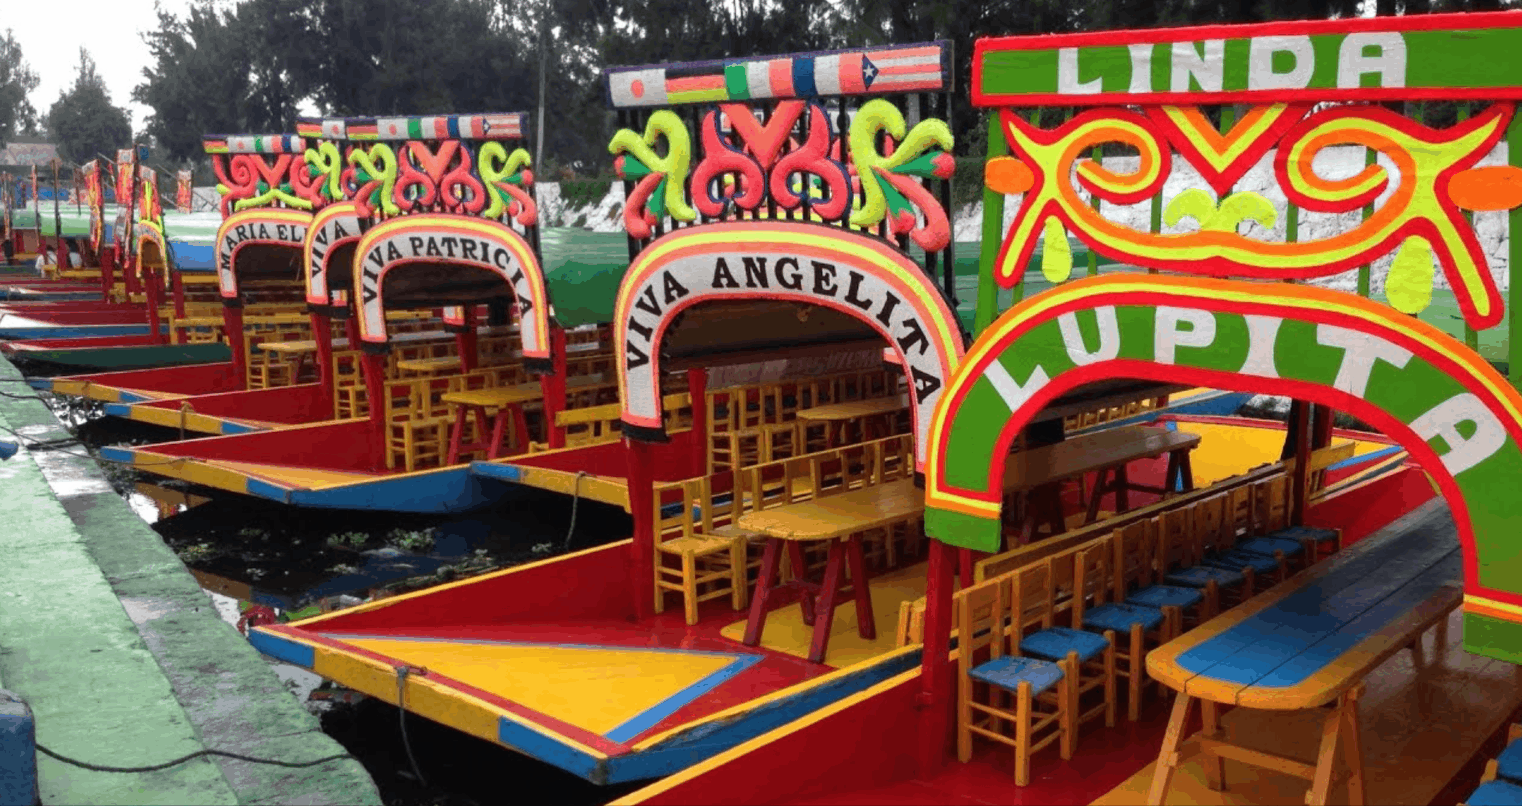
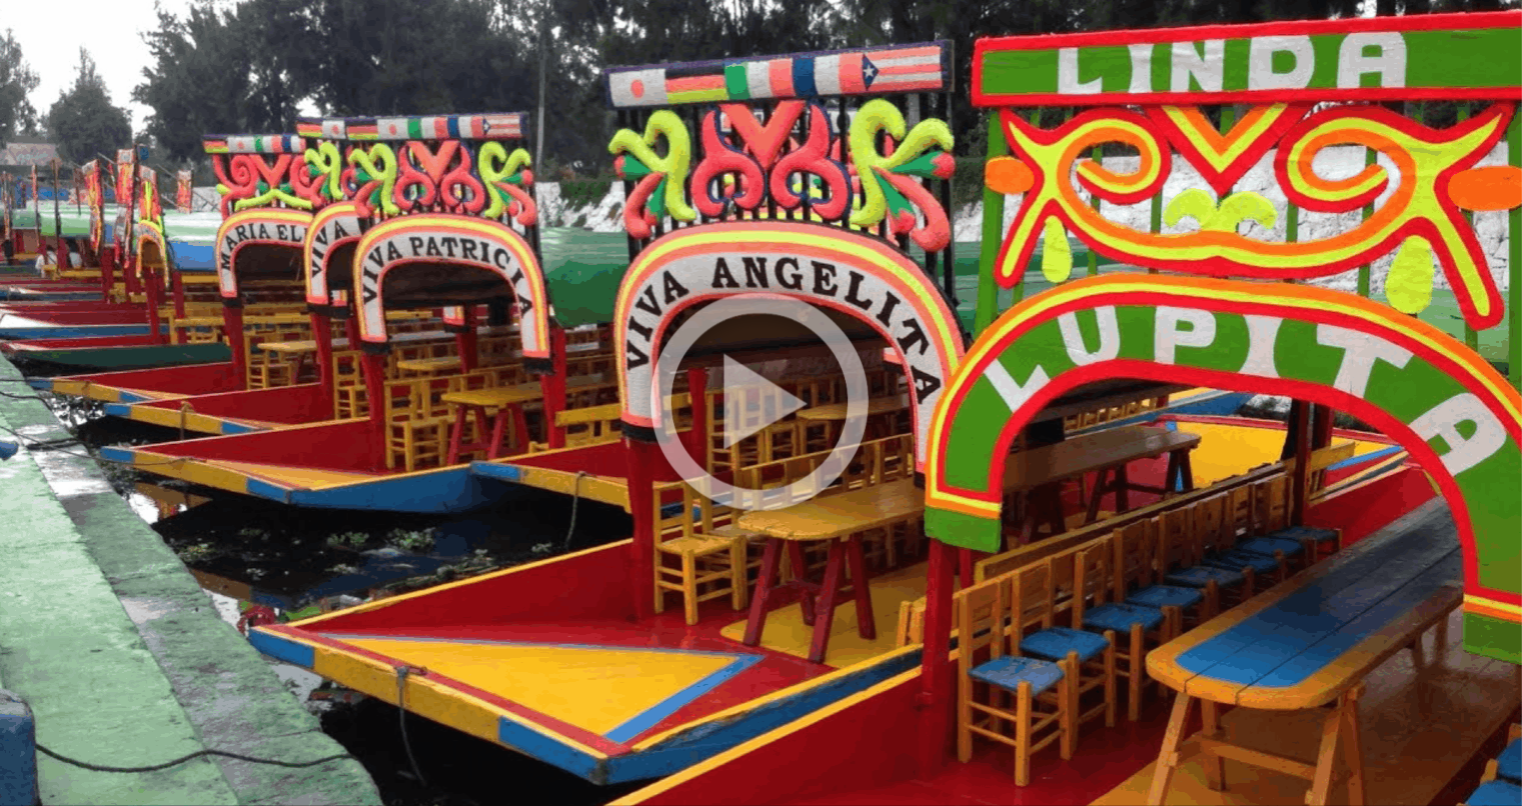
Sixth Major Commit

Changed region(s): [[0.4014, 0.3412, 0.5867, 0.6514]]

diff --git a/projects.html b/projects.html
@@ -4,6 +4,7 @@
         <link href= "bars.css" rel= "stylesheet">
         <link href= "projects.css" rel= "stylesheet">
 
+
         <link rel="apple-touch-icon" sizes="57x57" href="/pictures/favicon/apple-icon-57x57.png">
         <link rel="apple-touch-icon" sizes="60x60" href="/pictures/favicon/apple-icon-60x60.png">
         <link rel="apple-touch-icon" sizes="72x72" href="/pictures/favicon/apple-icon-72x72.png">
@@ -22,8 +23,7 @@
         <meta name="msapplication-TileImage" content="/pictures/favicon/ms-icon-144x144.png">
         <meta name="theme-color" content="#ffffff">
 
- 
-        <script href= "gifs.js"></script>
+        <script src= "gifs.js"></script>
     </head>
     <body>
         <div class= "toolbar">
@@ -42,12 +42,39 @@
                 </li>
             </ul>
         </div>
+        
 
+        
 
-        <div class= "projects-content">
-            <h1>Projects</h1>
+        <div align= "center">
             <table align= "center">
+                <tr>
+                    <th>
+                        <h1>Here are some of my Projects!</h1>
+                    </th>
+                </tr>
+
                 <tr class = "project-header">
+                    <td>
+                        <h2>Image Mosaic | CS 373</h2>
+                    </td>
+                </tr>
+                <tr>
+                    <td>
+                        <p>
+                            This is one of my favorite projects from CS 373 Computer Graphics. The goal of this project is to take an input image, 
+                            and transform it into an image mosaic using a given set of images. 
+                        </p>
+
+                        <div id = "mosaic-images">
+                            <img src= "pictures/Mona_Lisa_Still.png" alt= "Mona Lisa Mosaic Gif" id= "mona-lisa-gif" data-alt= "pictures/mona-lisa-mosaic.gif" onclick= "runGif('mona-lisa-gif')">
+                            <div id= "spacer"></div>
+                            <img src= "pictures/xochimilco-still.png" alt= "Colorful Boat Mosaic Gif" id= "xochimilco-gif" data-alt= "pictures/xochimilco.gif" onclick= "runGif('xochimilco-gif')">
+                        </div>
+                    </td>
+                </tr>
+
+                 <tr class = "project-header">
                     <td>
                         <h2>Web Programming Project | CS 326</h2>
                     </td>
@@ -55,7 +82,6 @@
                 <tr>
                     <td>
                         <p>
-
                             For my CS 326 Final Project, I will be working with 3 other students to create an interactive website. 
                             The frontend will be made utilizing the React.js framework, and be styled using Bootstrap, 
                             while AWS and node.js will be used to run the backend and applications.
@@ -71,7 +97,7 @@
                         <h2>Math Modeling Project | Math 456</h2>
                     </td>
                 </tr>
-                <tr class= "text-paragraph">
+                <tr>
                     <td>
                         <p>
                             The goal of this project is to analyze a large dataset of Counter-String: Global Offensive competitve esports 
@@ -82,32 +108,11 @@
                     </td>
                 </tr>
 
-                <tr class = "project-header">
-                    <td>
-                        <h2>Image Mosaic | CS 373</h2>
-                    </td>
-                </tr n>
-                <tr class= "text-paragraph">
-                    <td>
-                        <p>
-                            This is one of my favorite projects from CS 373 Computer Graphics. The goal of this project is to take an input image, 
-                            and transform it into an image mosaic using a given set of images. 
-                        </p>
-
-                    <div id = "mosaic-images">
-                        <button onclick= "mona_gif_function()">Play</button>
-                        <figure>
-                            <img src= "pictures/mona-lisa-still.png" alt= "Mona Lisa Mosaic Gif" id= "mona-lisa-gif" data-alt= "pictures/mona-lisa-mosaic.gif">
-                        </figure>
-                        <figure>
-                            <img src= "pictures/xochimilco-still.png" alt= "Colorful Boat Mosaic Gif" id= "xochimilco-gif" data-alt= "pictures/xochimilco.gif">
-                        </figure>
-                    </div>
-
-                </td>
-
             </table>
         </div>
+
+
+
 
         <div class= "bottom-bar">
             <ul class>
@@ -121,7 +126,7 @@
                     <a href= "https://github.com/Douglas-Silverman/" target= "_blank">github.com/Douglas-Silverman</a>
                 </li>
                 <li id = "linkedIn">
-                    <a href= "https://www.linkedIn.com/in/Douglas-Silverman" target= "_blank">linkedin.com/in/Douglas-Silverman</a>
+                    <a href= "https://www.linkedIn.com/in/Douglas-Silverman" target= "_blank">linkedIn.com/in/Douglas-Silverman</a>
                 </li>
             </ul>
         </div>

diff --git a/about_me.css b/about_me.css
@@ -1,48 +1,42 @@
 body{
+    width: 100%;
     background-color: #4f4f4f;
     font-family: 'Gill Sans', 'Gill Sans MT', Calibri, 'Trebuchet MS', sans-serif;
+    color: #e6e6e6;
+    font-size: 18pt;
 }
 
-h1{
+h1 {
+    font-size: 40pt;    
+    font-weight: normal;
+    background-image: linear-gradient(teal, rgb(0, 179, 179));
     margin: 0px;
-    font-size: 32pt;
+    margin-bottom: 55px;
+    padding-bottom: 15px;
 }
 
 #profile-picture {
-    background-position: center;
+    margin-left: 10%;
     height: 375px;
     width: 375px;
-    background-repeat: no-repeat;
-    margin-left: 15px;
-    margin-top: 15px;
+    vertical-align: top;
 }
 
-.about-me {
-    color: #e6e6e6;
-    margin: 15px;
-    text-align: left;
+tr {
+    margin-top: 25px;
 }
 
-.about-me table{
-    width: 80%;
-}
-
-.about-me td{
-    width: 45%;
-}
-
-.about-me p{
+p{
+    margin: 0px;
+    margin-left: 50px;
     padding: 5px;
-    font-size: 14pt;
+    margin-right: 10%;
 }
 
-.about-me #profile-row td{
-    width: 35%;
-}
-
-.about-me h2{
+h2{
     text-align: center;
     background-image: linear-gradient(#333, #444);
+    font-weight: normal;
 }
 
 .centered{

diff --git a/projects.css b/projects.css
@@ -6,11 +6,27 @@ body{
     font-weight: normal;
 }
 
+th{
+    text-align: center;
+}
 h1 {
     font-size: 40pt;    
     font-weight: normal;
+    background-image: linear-gradient(teal, rgb(0,170,170));
+    margin: 0px;
+    padding-bottom: 15px;
+    margin-bottom: 40px;
 }
 
+td{
+    padding: 0px;
+}
+
+table{
+    padding: 0px;
+    margin: 0px;
+    text-align: center;
+}
 .project-header{
     background-image: linear-gradient(#333, #444);
 }
@@ -20,6 +36,7 @@ h2{
     padding-left: 10%;
     font-size: 28pt;
     font-weight: normal;
+    margin: 5px;
 }
 
 table{
@@ -54,14 +71,19 @@ p {
 }
 
 #mona-lisa-gif {
+    margin-bottom: 30px;
     width: 345px;
     height: 400px;
+}
+
+#spacer {
+    display: inline-block;
+    width: 50px;
 }
 
 #xochimilco-gif {
     width: 507px;
     height: 268px;
-    margin-left: 50px;
     align-self: auto;
     vertical-align: top;
 }

diff --git a/about_me.html b/about_me.html
@@ -42,14 +42,14 @@
             </ul>
         </div>
 
-        <div class= about-me>
+        <div>
             <table align = "center">
                 <tr>
-                    <th colspan="2" class= "centered">
+                    <th class= "centered" colspan="2">
                         <h1>Douglas Silverman</h1>
                     </th>
                 </tr>
-                <tr id= "profile-row">
+                <tr>
                     <td rowspan= "2">
                         <img src= "pictures/profilePic.png" id = "profile-picture" alt= "profile picture">
                     </td>

diff --git a/interests.css b/interests.css
@@ -4,10 +4,13 @@ body{
     font-family: 'Gill Sans', 'Gill Sans MT', Calibri, 'Trebuchet MS', sans-serif;
 }
 
-h1{
-    font-size: 40pt;
+h1 {
+    font-size: 40pt;    
     font-weight: normal;
-    margin-top: 0;
+    background-image: linear-gradient(teal, rgb(0, 179, 179));
+    margin: 0px;
+    padding-bottom: 15px;
+    margin-bottom: 15px;
 }
 
 #ultimate-image{

diff --git a/gifs.js b/gifs.js
@@ -1,5 +1,5 @@
-function mona_gif_function(){
-    let img = document.getElementById("mona-lisa-gif");
+function runGif(id){
+    let img = document.getElementById(id);
     let src = img.getAttribute("src");
     let data_alt = img.getAttribute("data-alt");
 

diff --git a/home.css b/home.css
@@ -25,6 +25,7 @@ body{
     margin-top: 25px;
     margin-bottom: 50px;
     font-size: 40pt;
+    font-weight: normalk;
     padding: 0px;
     text-shadow: 1px 1px #8c8c8c;
 }

diff --git a/bars.css b/bars.css
@@ -44,7 +44,7 @@ body{
 }
 
 #active-page:hover {
-    background-color: rgb(0, 80, 80);
+    background-color: rgb(0, 170, 170);
     transition-duration: 0.4s;
 }
 
